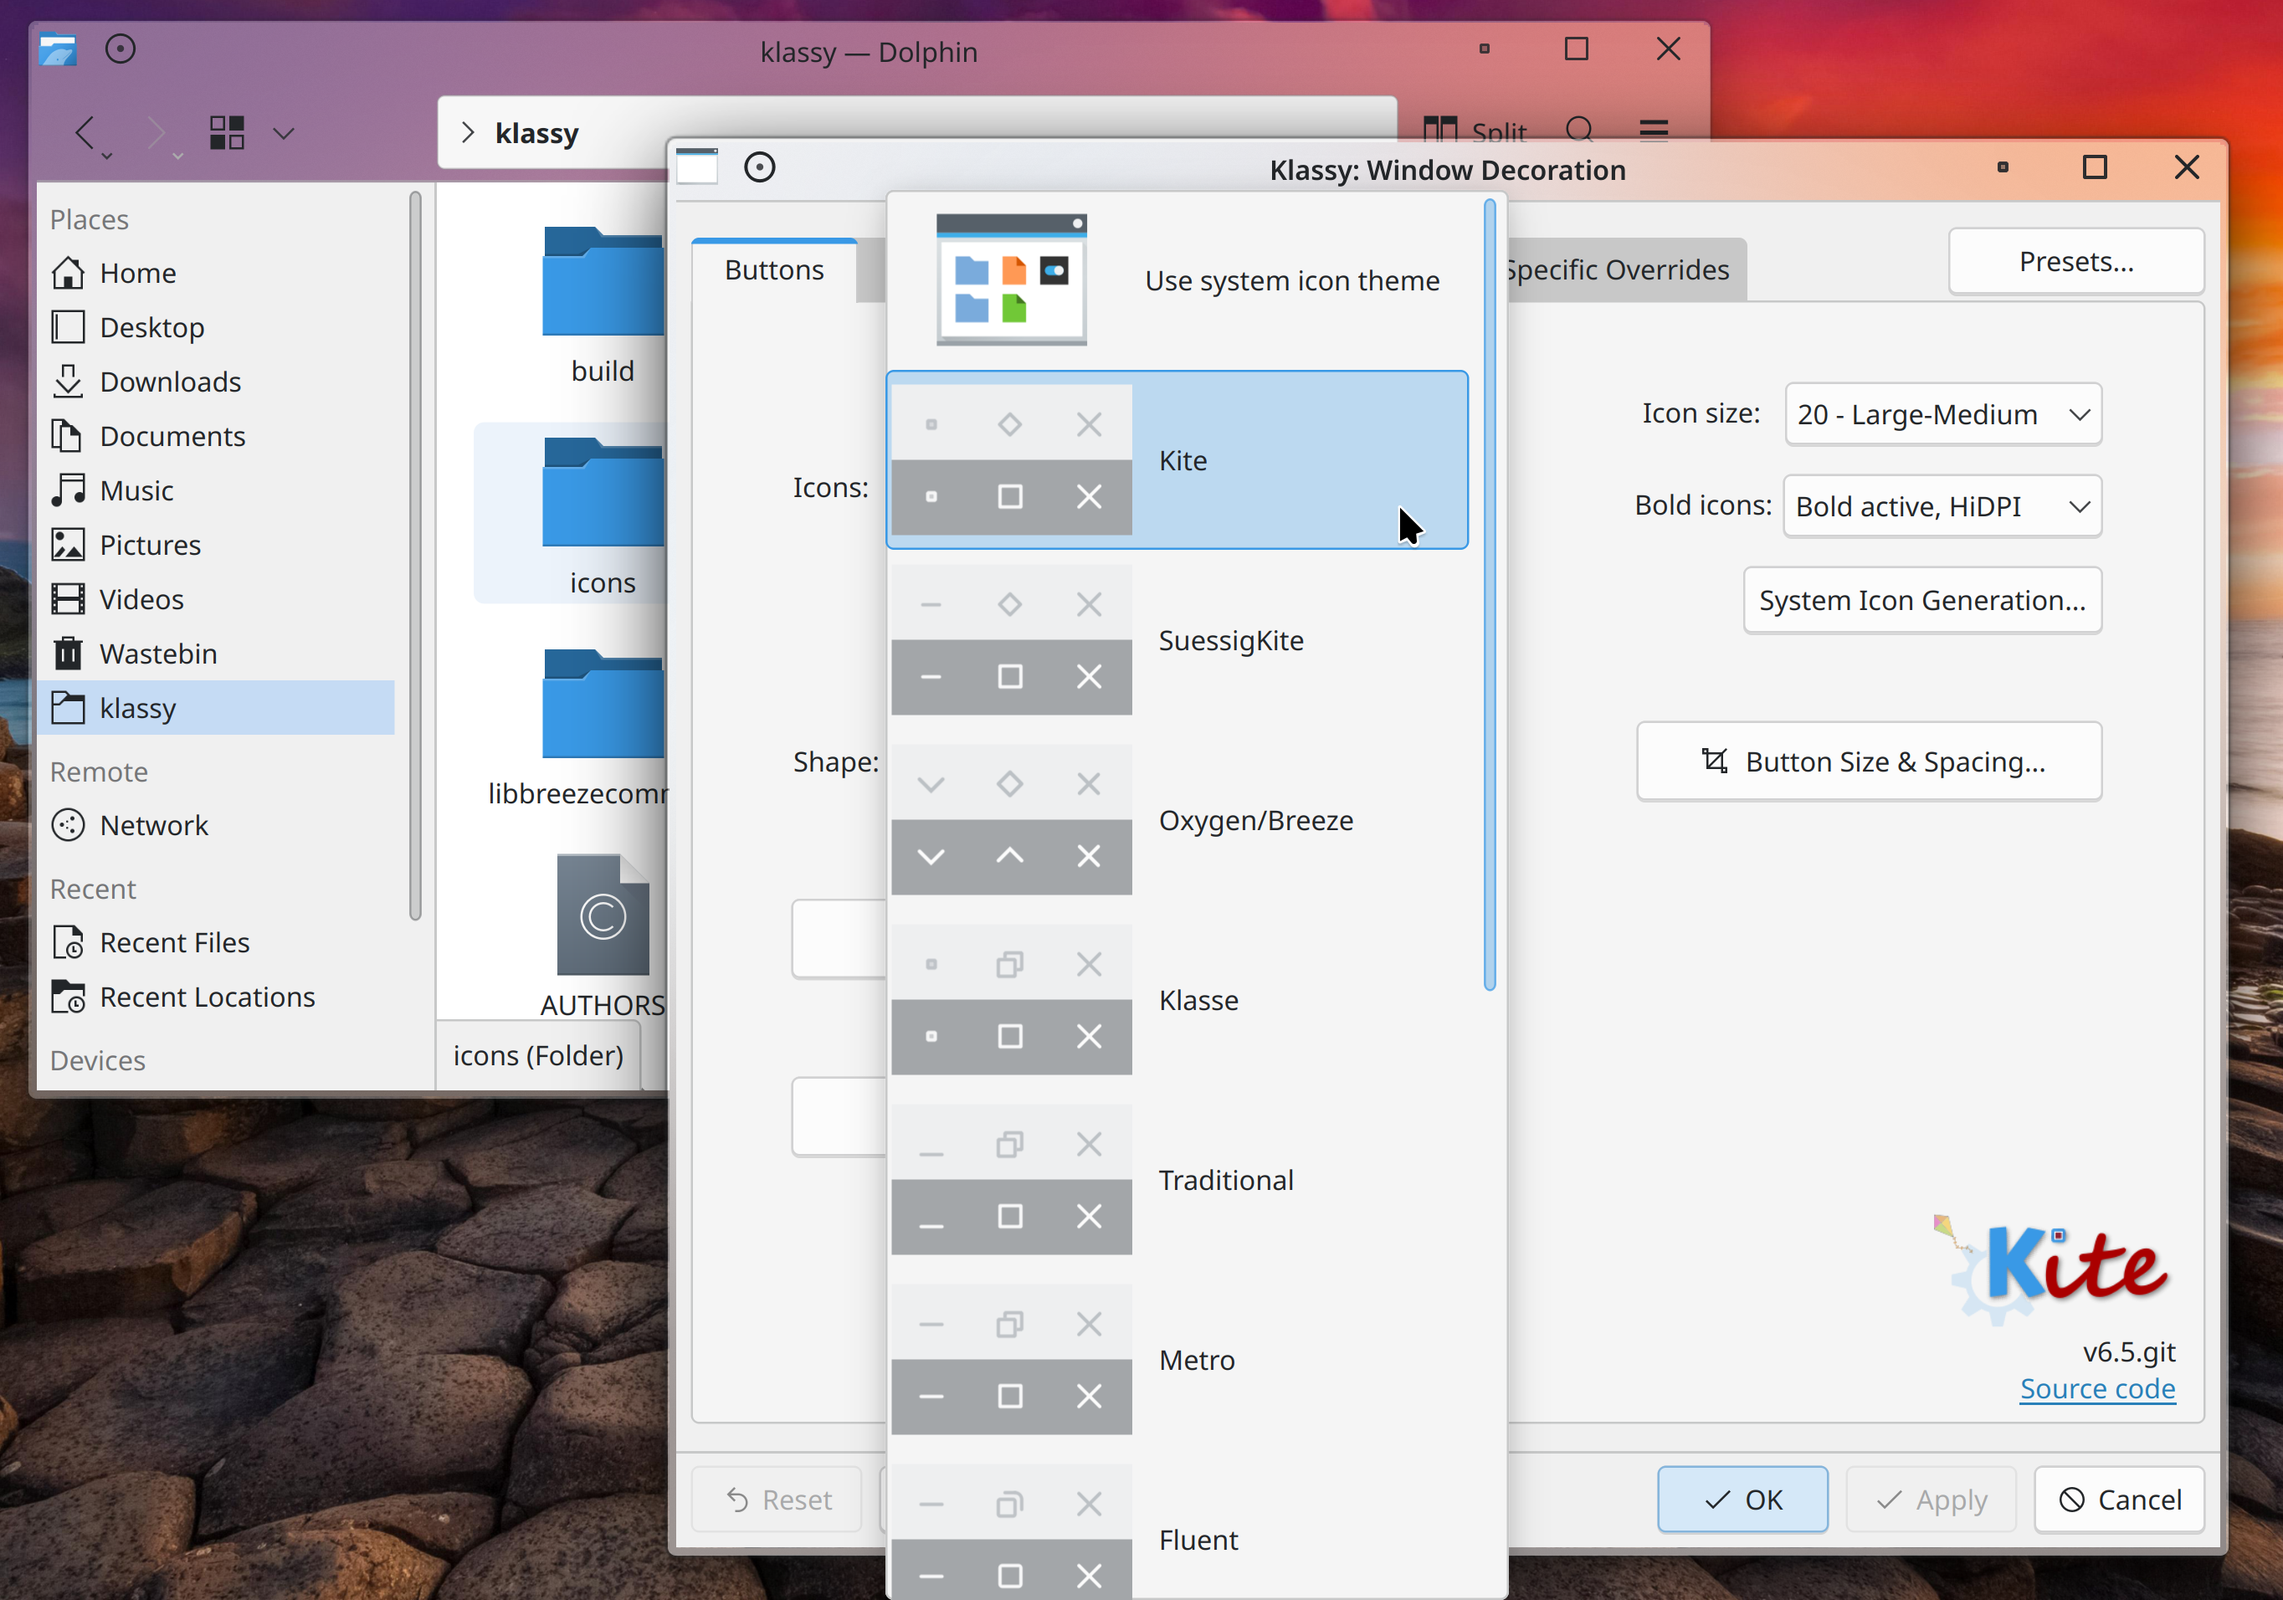
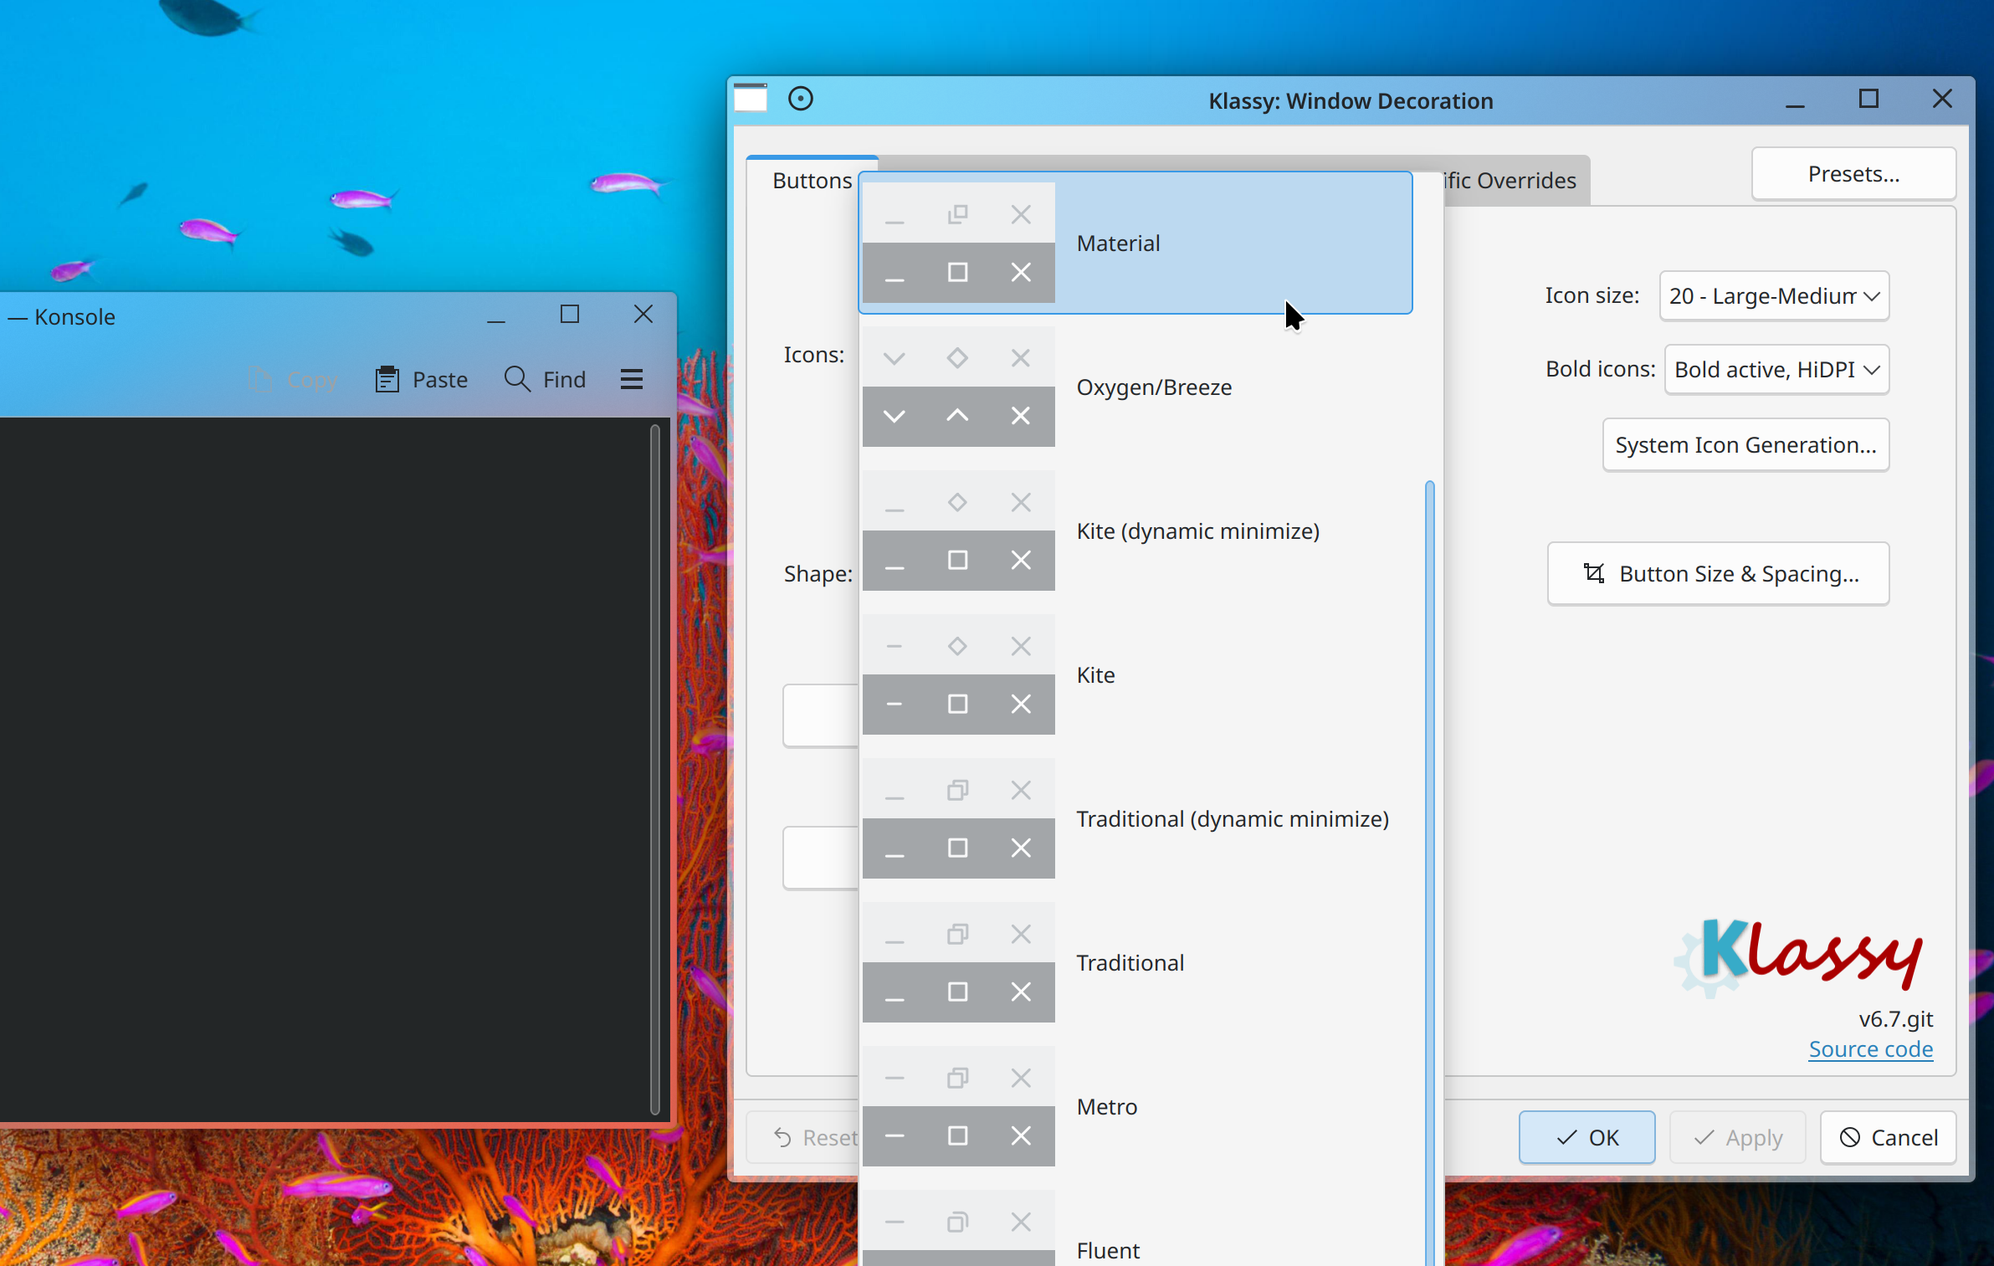
Update screenshots and README

diff --git a/README.md b/README.md
@@ -75,7 +75,7 @@ It is recommended to first try the bundled Presets in Klassy Settings before any
    ![Turquoise button style, dark](screenshots/highlight_gifs/tdark.gif "Turquoise button style, dark")![Turquoise button style, light](screenshots/highlight_gifs/tlight.gif "Turquoise button style, light")
 
 
-* Full-height Rectangular (_ClassikStyles_ preset) or Circular (_Classik-Aurorae_ preset) button highlights:
+* Full-height Rectangular (_ClassikStyles_ preset) or Circular button highlights:
    ![Full-height Rectangle button highlight style, inheriting system highlight colours](screenshots/highlight_gifs/squareHighlight.gif "Full-height Rectangle button highlight style, inheriting system highlight colours")![Circle button highlight style, inheriting system highlight colours](screenshots/highlight_gifs/circleHighlight.gif "Circle button highlight style, inheriting system highlight colours")
 
 * Ability to inherit system colour-scheme highlight colours for hover and focus, as well as titlebar colour. Auto-enhances contrast in cases where it is poor.
@@ -91,7 +91,7 @@ It is recommended to first try the bundled Presets in Klassy Settings before any
 
 ![Composite screenshot of thin window outlines with Contrast blended with accent colour (dark)](screenshots/thin_window_outline_dark_contrast_accent.png "Composite screenshot of thin window outlines with Contrast blended with accent colour (dark)")
 
-* Configurable scrollbars:
+* Configurable scrollbars; innovative gapless auto-hiding-arrow scrollbar design by default:
  
 <img src="screenshots/configurable_scrollbars.png" width="80%">![Default scrollbar animation](screenshots/scrollbar_mouseover.gif "Default scrollbar animation")
 
